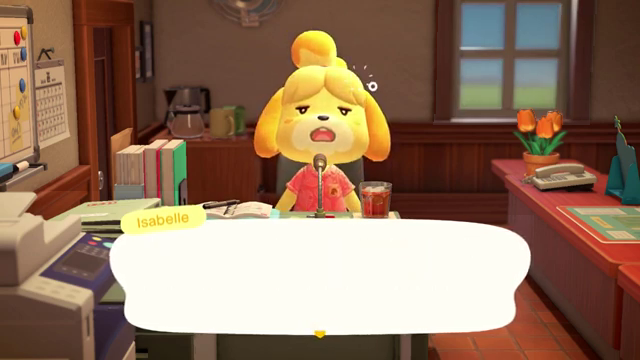
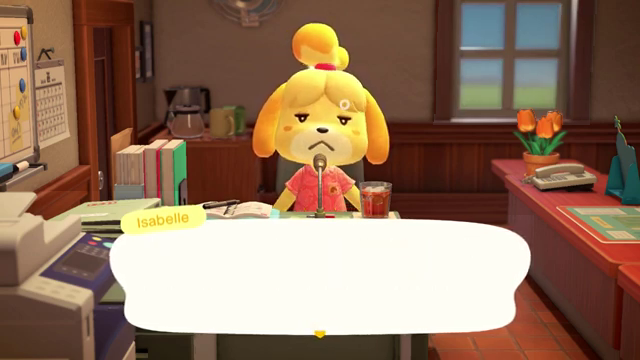
Adding stuff

Changed region(s): [[0.375, 0.0611, 0.625, 0.6111]]

diff --git a/index.html b/index.html
@@ -100,7 +100,7 @@
 			 		<td>
 			 			<label>Select a reaction</label>
 						 <select class="selectpicker" data-style="btn-default" id='reactionSelect' onchange='updateReaction()'>
-						 	<option value='idle' selected>Normal</option>
+						 	<option value='idle-brighter' selected>Normal</option>
 						 	<option value='opening'>Intro</option>
 						 	<option value='opening-distracted'>Intro (distracted)</option>
 						 	<option value='shock-and-embarrased'>Shocked and bashful</option>
@@ -108,12 +108,13 @@
 						 	<option value='happy-notes'>Glee</option>
 						 	<option value='happy-flower'>Joy</option>
 						 	<option value='happy-flash'>Encouragement</option>
-						 	<option value='clapping'>Clapping</option>
+						 	<option value='clapping'>Delight</option>
 						 	<option value='question-mark'>Curiousity</option>
 						 	
 						 	<option value='love'>Love</option>
 						 	<option value='thinking'>Thought</option>
-						 	
+						 	<option value='yawn'>Dozing</option>
+						 	<option value='exclaimation-mark'>Surprise</option>
 						 	<option value='idea'>Inspiration</option>
 						 	<option value='notice'>Amazed</option>
 						 	<option value='closing'>Closing</option>
@@ -318,9 +319,12 @@
 			          <h4 class="modal-title">What is this?</h4>
 			        </div>
 			        <div class="modal-body">
-			        
-
-
+			        	<h4><b>UPDATE: (June 14th, 2020)</b> New reactions has been added "Delight", "Dozing", "Surprise"!</h4>
+			        	<br>
+			        	Join us for more updates, ask questions, etc. <a target="_blank" href="https://discord.com/invite/faXTuZ"><img src="./images/discord.png"></a>
+			        	<br>
+			        	_____________________________________________________________________________________________________
+			        	<br><br>
 			        	Welcome to Animal Crossing GIF Maker, where you can make your own animated GIFs with ease (no video/image editing skills required)! 
 						<br><br>
 						Currently we support making animated GIFs of Isabelle's intro announcements from New Horizons, allowing you to piece together text and multiple reactions to create your own animated GIF of Isabelle. Whether it is creating a fun story or dank memes, you can let your imagine run wild on what to make Isabelle say.
@@ -367,6 +371,9 @@
 						<br><br>
 						Have fun!
 						<br>
+						<table>
+
+			        	</table>
 
 
 

diff --git a/js/storyMakerScript.js b/js/storyMakerScript.js
@@ -21,6 +21,7 @@ var sceneMaxFrameDict = {
 	"closing":29,
 	"love":36,
 	"idle":34,
+	"idle-brighter":36,
 	"nod":34,
 	"thinking":32,
 	"happy-flash":27,
@@ -28,6 +29,8 @@ var sceneMaxFrameDict = {
 	"idea":19,
 	"notice":23,
 	"clapping":44,
+	"yawn":34,
+	"exclaimation-mark":18,
 
 }
 

diff --git a/scripts/overlay.py b/scripts/overlay.py
@@ -5,7 +5,7 @@ from time import time
 
 
 #dirPath = '../frameChoice/active/closing/'
-dirPath = '../frameChoice/active/yawn/'
+dirPath = '../frameChoice/active/idle-arms-down/'
 
 #templateImg = cv2.imread("../frameChoice/template/transparent/morning-0.png", -1) # this one has transparency
 templateImg = cv2.imread("../frameChoice/template/transparent/morning-0.png", -1) # this one has transparency

diff --git a/scripts/rename-image.py b/scripts/rename-image.py
@@ -2,7 +2,7 @@ import cv2
 import os
 
 #dirPath = '../frameChoice/active/closing/'
-dirPath = '../frameChoice/active/yawn/'
+dirPath = '../frameChoice/active/idle-arms-down/'
 
 fileList = os.listdir(dirPath)
 fileList = sorted(fileList,key=lambda x:int(x.partition('.')[0]))
